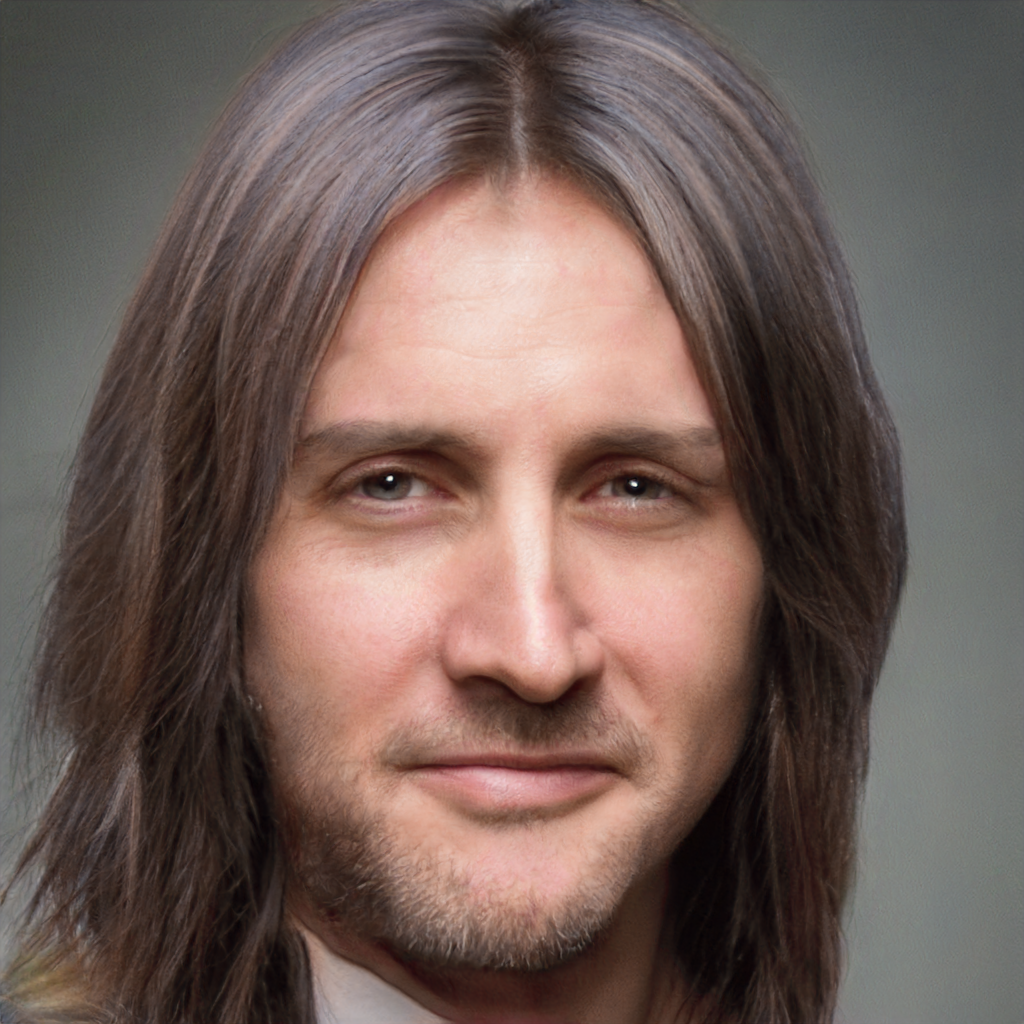
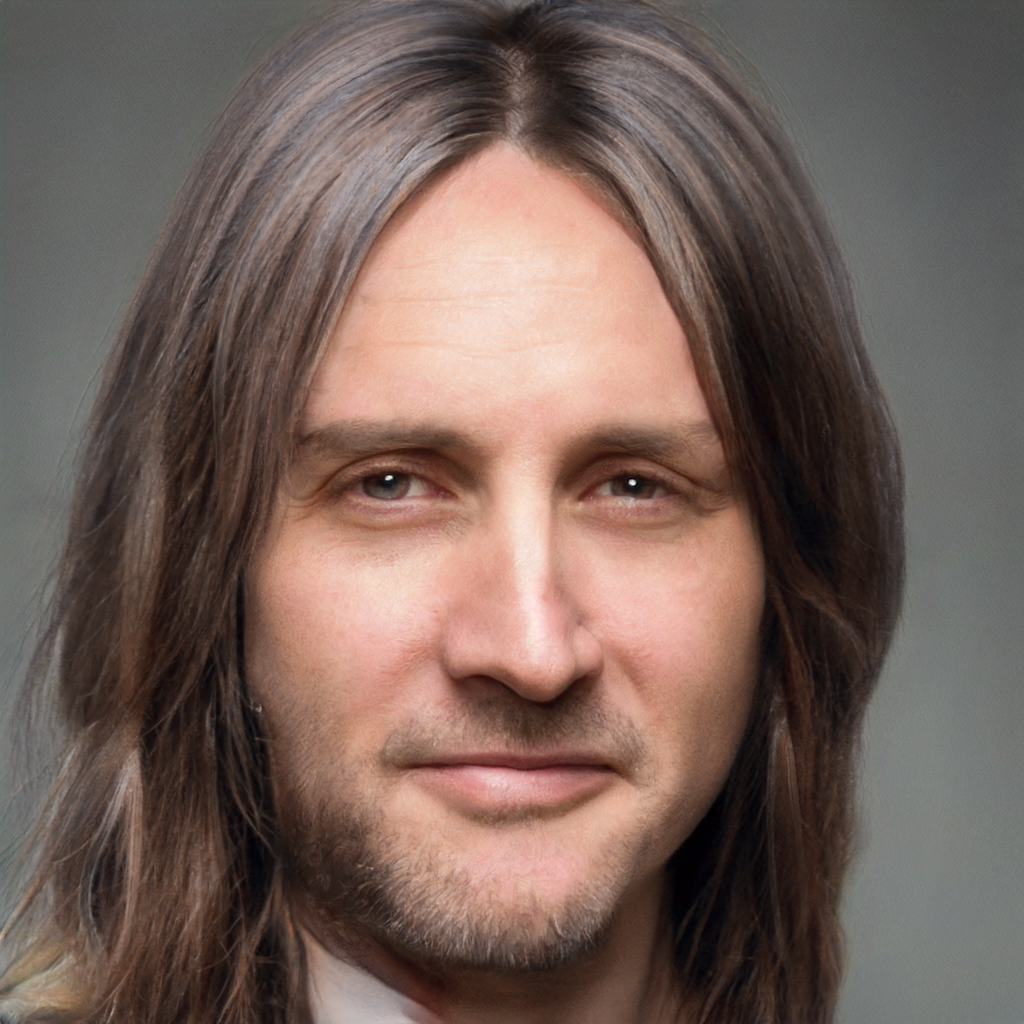
[장서현] 0626 figure: CM_1172 input_img 교체 + 3개 모델(SHS/Vivid/HairCLIPv2_shscolor) 재실행 결과 반영

diff --git a/reports/[0626]figure.md b/reports/[0626]figure.md
@@ -40,7 +40,7 @@
 | <img src="../outputs/figure/input_img/CM_1084.png" height="170"> | <img src="../outputs/figure/sketch_gt/CM_1084.png" height="170"> | <img src="../outputs/figure/matt/CM_1084.png" height="170"> | <img src="../outputs/figure/gt/hair-dit/CM_1084.png" height="170"> | <img src="../outputs/figure/gt/hair-dit_sketch_only/CM_1084.png" height="170"> | <img src="../outputs/figure/gt/SketchHairSalon/CM_1084.png" height="170"> | <img src="../outputs/figure/gt/VividHairStyler/CM_1084.png" height="170"> | <img src="../outputs/figure/gt/HairCLIPv2_shscolor/CM_1084.png" height="170"> |
 | <img src="../outputs/figure/input_img/CM_1101.png" height="170"> | <img src="../outputs/figure/sketch_gt/CM_1101.png" height="170"> | <img src="../outputs/figure/matt/CM_1101.png" height="170"> | <img src="../outputs/figure/gt/hair-dit/CM_1101.png" height="170"> | <img src="../outputs/figure/gt/hair-dit_sketch_only/CM_1101.png" height="170"> | <img src="../outputs/figure/gt/SketchHairSalon/CM_1101.png" height="170"> | <img src="../outputs/figure/gt/VividHairStyler/CM_1101.png" height="170"> | <img src="../outputs/figure/gt/HairCLIPv2_shscolor/CM_1101.png" height="170"> |
 | <img src="../outputs/figure/input_img/CM_1106.png" height="170"> | <img src="../outputs/figure/sketch_gt/CM_1106.png" height="170"> | <img src="../outputs/figure/matt/CM_1106.png" height="170"> | <img src="../outputs/figure/gt/hair-dit/CM_1106.png" height="170"> | <img src="../outputs/figure/gt/hair-dit_sketch_only/CM_1106.png" height="170"> | <img src="../outputs/figure/gt/SketchHairSalon/CM_1106.png" height="170"> | <img src="../outputs/figure/gt/VividHairStyler/CM_1106.png" height="170"> | <img src="../outputs/figure/gt/HairCLIPv2_shscolor/CM_1106.png" height="170"> |
-| <img src="../outputs/figure/input_img/CM_1172.png" height="170"> | <img src="../outputs/figure/sketch_gt/CM_1172.png" height="170"> | <img src="../outputs/figure/matt/CM_1172.png" height="170"> | <img src="../outputs/figure/gt/hair-dit/CM_1172.png" height="170"> | <img src="../outputs/figure/gt/hair-dit_sketch_only/CM_1172.png" height="170"> | <img src="../outputs/figure/gt/SketchHairSalon/CM_1172.png" height="170"> | <img src="../outputs/figure/gt/VividHairStyler/CM_1172.png" height="170"> | <img src="../outputs/figure/gt/HairCLIPv2_shscolor/CM_1172.png" height="170"> |
+| <img src="../outputs/figure/input_img/CM_1172.png" height="170"> | <img src="../outputs/figure/sketch_gt/CM_1172.png" height="170"> | <img src="../outputs/figure/matt/CM_1172.png" height="170"> |  | <img src="../outputs/figure/gt/hair-dit_sketch_only/CM_1172.png" height="170"> | <img src="../outputs/figure/gt/SketchHairSalon/CM_1172.png" height="170"> | <img src="../outputs/figure/gt/VividHairStyler/CM_1172.png" height="170"> | <img src="../outputs/figure/gt/HairCLIPv2_shscolor/CM_1172.png" height="170"> |
 | <img src="../outputs/figure/input_img/braid_2562.png" height="170"> | <img src="../outputs/figure/sketch_gt/braid_2562.png" height="170"> | <img src="../outputs/figure/matt/braid_2562.png" height="170"> | <img src="../outputs/figure/gt/hair-dit/braid_2562.png" height="170"> | <img src="../outputs/figure/gt/hair-dit_sketch_only/braid_2562.png" height="170"> | <img src="../outputs/figure/gt/SketchHairSalon/braid_2562.png" height="170"> | <img src="../outputs/figure/gt/VividHairStyler/braid_2562.png" height="170"> | <img src="../outputs/figure/gt/HairCLIPv2_shscolor/braid_2562.png" height="170"> |
 | <img src="../outputs/figure/input_img/braid_2562_1.png" height="170"> | <img src="../outputs/figure/sketch_gt/braid_2562_1.png" height="170"> | <img src="../outputs/figure/matt/braid_2562_1.png" height="170"> | <img src="../outputs/figure/gt/hair-dit/braid_2562_1.png" height="170"> | <img src="../outputs/figure/gt/hair-dit_sketch_only/braid_2562_1.png" height="170"> | <img src="../outputs/figure/gt/SketchHairSalon/braid_2562_1.png" height="170"> | <img src="../outputs/figure/gt/VividHairStyler/braid_2562_1.png" height="170"> | <img src="../outputs/figure/gt/HairCLIPv2_shscolor/braid_2562_1.png" height="170"> |
 | <img src="../outputs/figure/input_img/braid_3276.png" height="170"> | <img src="../outputs/figure/sketch_gt/braid_3276.png" height="170"> | <img src="../outputs/figure/matt/braid_3276.png" height="170"> | <img src="../outputs/figure/gt/hair-dit/braid_3276.png" height="170"> | <img src="../outputs/figure/gt/hair-dit_sketch_only/braid_3276.png" height="170"> | <img src="../outputs/figure/gt/SketchHairSalon/braid_3276.png" height="170"> | <img src="../outputs/figure/gt/VividHairStyler/braid_3276.png" height="170"> | <img src="../outputs/figure/gt/HairCLIPv2_shscolor/braid_3276.png" height="170"> |
